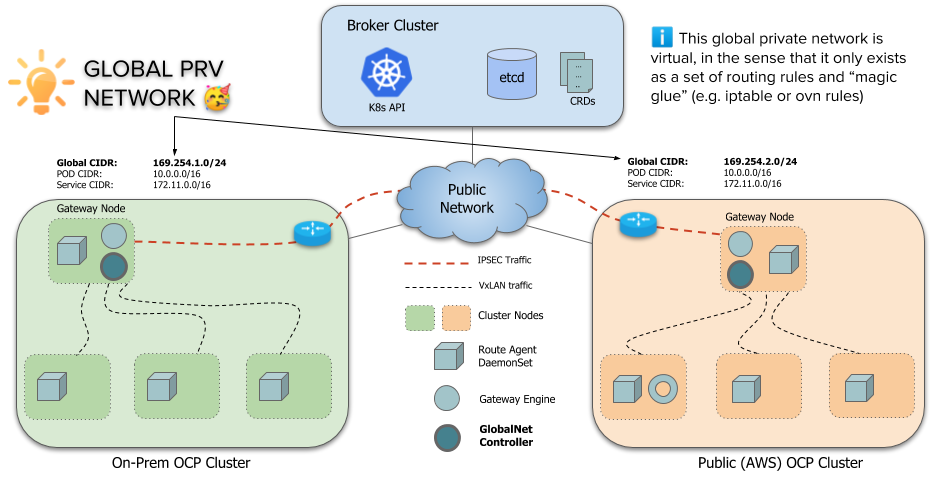
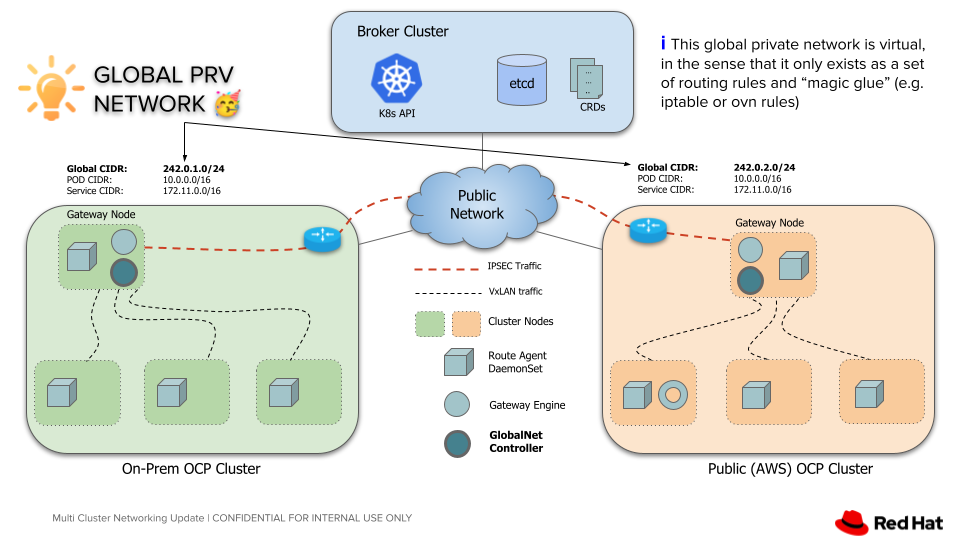
Update documentation for Globalnet 2.0
Fixes #455

diff --git a/src/content/getting-started/architecture/globalnet/_index.en.md b/src/content/getting-started/architecture/globalnet/_index.en.md
@@ -22,33 +22,42 @@ clusters with overlapping CIDRs to connect together.
 
 To support overlapping CIDRs in connected clusters, Submariner has a component called Global Private Network, Globalnet (`globalnet`). This
 Globalnet is a virtual network specifically to support Submariner's multi-cluster solution with a global CIDR. Each cluster is given a
-subnet from this virtual Global Private Network, configured as new cluster parameter `GlobalCIDR` (e.g. 169.254.0.0/16) which is
+subnet from this virtual Global Private Network, configured as new cluster parameter `GlobalCIDR` (e.g. 242.0.0.0/8) which is
 configurable at time of deployment. User can also manually specify GlobalCIDR for each cluster that is joined to the Broker using the flag
 ```globalnet-cidr``` passed to ```subctl join``` command. If Globalnet is not enabled in the Broker or if a GlobalCIDR is preconfigured in
 the cluster, the supplied globalnet-cidr will be ignored.
 
-Once configured, each exported Service and Pod that requires cross-cluster access is allocated an IP, named `globalIp`,
-from this `GlobalCIDR` that is annotated on the Pod/Service object.
-This globalIp is used for all cross-cluster communication to and from a Pod and the globalIp of a
-remote Service. Routing and iptable rules are configured to use the globalIp for ingress and egress. All address translations occur on the
-Gateway node.
+### Cluster-scope global egress IPs
+
+By default, every cluster is assigned a configurable number of global IPs, represented by a `ClusterGlobalEgressIP` resource, which are
+used as egress IPs for cross cluster communication. Multiple IPs are supported to avoid ephemeral port exhaustion issues. The default is 8.
+The IPs are allocated from a configurable global CIDR.
+Applications running on the host network that access remote clusters also use the cluster-level global egress IPs.
+
+### Namespace-scope global egress IPs
+
+A user can assign a configurable number of global IPs per namespace by creating a `GlobalEgressIP` resource. These IPs are also allocated
+from the global CIDR and are used as egress IPs for all or selected pods in the namespace and take precedence over the cluster-level
+global IPs. In addition, the global IPs allocated for a `GlobalEgressIP` that targets specific pods in a namespace take precedence
+over the global IPs allocated for a `GlobalEgressIP` that just targets the namespace.
+
+### Service global ingress IPs
+
+Exported `ClusterIP` type services are automatically allocated a global IP from the global CIDR for ingress. For headless services, each
+backing pod is allocated a global IP that is used for both ingress and egress. However if a backing pod matches a `GlobalEgressIP` then
+its allocated IPs are used for egress.
+
+Routing and iptable rules are configured to use the corresponding global IPs for ingress and egress. All address translations occur on the active
+Gateway node of the cluster.
 
 ![Figure 1 - Proposed solution](/images/globalnet/overlappingcidr-solution.png)
 
-{{% notice info %}}
-
-Unlike vanilla Submariner, where Pod to Pod connectivity is also supported, Globalnet only supports Pod to remote Service connectivity using
-globalIps.
-
-{{% /notice %}}
-
 ### submariner-globalnet
 
-Submariner Globalnet is a component that provides cross-cluster connectivity from Pods to remote Services using their globalIps. Compiled as
-binary `submariner-globalnet`, it is responsible for maintaining a pool of global IPs, allocating IPs from the GlobalIp pool to pods and
-services, annotating Services and Pods with their globalIp, and configuring the required rules on the gateway node to provide cross-cluster
-connectivity using globalIps.
-Globalnet also supports connectivity from the Nodes (including Pods that use HostNetworking) to globalIp of remote Services.
+Submariner Globalnet is a component that provides cross-cluster connectivity from pods to remote services using their global IPs. Compiled as
+binary `submariner-globalnet`, it is responsible for maintaining a pool of global IPs, allocating IPs from the global IP pool to pods and
+services, and configuring the required rules on the gateway node to provide cross-cluster connectivity using global IPs.
+Globalnet also supports connectivity from the nodes (including pods that use host networking) to the global IP of remote services.
 It mainly consists of two key components: the IP Address Manager and Globalnet.
 
 #### IP Address Manager (IPAM)
@@ -56,20 +65,18 @@ It mainly consists of two key components: the IP Address Manager and Globalnet.
 The IP Address Manager (IPAM) component does the following:
 
 * Creates a pool of IP addresses based on the `GlobalCIDR` configured on cluster.
-* Allocates a globalIp from the GlobalIp pool on creation of a Pod, Service, or ServiceExport.
-* Annotates the Pod or exported Service with `submariner.io/globalIp=<global-ip>`.
-* On deletion of a Pod, Service, or ServiceExport, releases its globalIp back to the pool.
+* Allocates IPs from the global pool for all ingress and egress, and releases them when no longer needed.
 
 #### Globalnet
 
 This component is responsible for programming the routing entries, iptable rules and does the following:
 
 * Creates initial iptables chains for Globalnet rules.
-* Whenever a Pod is annotated with a globalIp, creates an egress SNAT rule to convert the source Ip from the Pod's Ip to the Pod's globalIp
-  on the Gateway Node.
-* Whenever a Service is annotated with a globalIp, creates an ingress rule to direct all traffic destined to the Service's globalIp to the
-  Service's `kube-proxy` iptables chain which in turn directs traffic to Service's backend Pods.
-* Clean up the rules from the gateway node on the deletion of a Pod, Service, or ServiceExport.
+* For each `GlobalEgressIP`, creates corresponding SNAT rules to convert the source IPs for all the matching pods to the corresponding
+  global IP(s) allocated to the `GlobalEgressIP` object.
+* For each exported service, creates an ingress rule to direct all traffic destined to the Service's global IP to the service's
+  `kube-proxy` iptables chain which in turn directs traffic to service's backend pods.
+* Clean up the rules from the gateway node on the deletion of a `Pod`, `Service`, or ServiceExport`.
 
 Globalnet currently relies on `kube-proxy` and thus will only work with deployments that use `kube-proxy`.
 
@@ -78,10 +85,77 @@ Globalnet currently relies on `kube-proxy` and thus will only work with deployme
 Connectivity is only part of the solution as pods still need to know the IPs of services on remote clusters.
 
 This is achieved by enhancing [lighthouse](https://github.com/submariner-io/lighthouse) with support for Globalnet. The Lighthouse
-controller adds the service's globalIp to the `ServiceImport` object that is distributed to all clusters. The [lighthouse
-plugin](https://github.com/submariner-io/lighthouse/tree/devel/plugin/lighthouse) then uses the Service's globalIp when replying to DNS
-queries for the Service.
+controller uses a service's global IP when creating the `ServiceImport` for services of type `ClusterIP`. For  headless services,
+backing pod's global IP is used when creating the `EndpointSlice` resources to be distributed to other clusters.
+The [lighthouse plugin](https://github.com/submariner-io/lighthouse/tree/devel/plugin/lighthouse) then uses the global IPs when
+replying to DNS queries.
 
 ## Building
 
 Nothing extra needs to be done to build `submariner-globalnet` as it is built with the standard Submariner build.
+
+## Usage
+
+Refer to the [Quickstart Guides](../../quickstart/) on how to deploy Submariner with Globalnet enabled. For most deployments users will not
+need to do anything else once deployed. But users can create `GlobalEgressIP`s or edit the `ClusterGlobalEgressIP` for specific use cases.
+
+### Ephemeral Port Exhaustion
+
+By default, 8 cluster-scoped global IPs are allocated which allows for `~8x64k` active ephemeral ports. If those are still
+not enough for a cluster, this number can be increased by setting the `NumberOfIPs` field in the `ClusterGlobalEgressIP` with the
+well-known name `cluster-egress.submariner.io`:
+
+```yaml
+   apiVersion: submariner.io/v1alpha1
+   kind: ClusterGlobalEgressIP
+   metadata:
+     name: cluster-egress.submariner.io
+   spec:
+     NumberOfIPs: 9
+```
+
+{{% notice note %}}
+Only the `ClusterGlobalEgressIP` resource with the name `cluster-egress.submariner.io` is recognized by Globalnet. This resource is automatically
+created with the default number of IPs.
+{{% /notice %}}
+
+### Global IPs for a Namespace
+
+If it's desired for all pods in a namespace to use a unique global IP instead of one of the cluster-scoped IPs, a user can create a
+`GlobalEgressIP` resource in that namespace:
+
+```yaml
+   apiVersion: submariner.io/v1alpha1
+   kind: GlobalEgressIP
+   metadata:
+     name: ns-egressip
+     namespace: ns1
+   spec:
+     NumberOfIPs: 1
+```
+
+The example above will allocate 1 global IP which will be used as egress IP for all pods in namespace `ns1`
+
+{{% notice note %}}
+`NumberOfIPs` can have minimum value of `0` and maximum of `20`
+{{% /notice %}}
+
+### Global IPs for a set of pods
+
+If it's desired for a set of pods in a namespace to use unique global IP(s), a user can create a `GlobalEgressIP` resource in that
+namespace with the `podSelector` field set:
+
+```yaml
+   apiVersion: submariner.io/v1alpha1
+   kind: GlobalEgressIP
+   metadata:
+     name: db-pods
+     namespace: ns1
+   spec:
+     podSelector:
+         matchLabels:
+           role: db
+     NumberOfIPs: 1
+```
+
+The example above will allocate 1 global IP which will be used as egress IP for all pods matching label `role=db` in namespace `ns1`.

diff --git a/src/content/operations/deployment/subctl/_index.en.md b/src/content/operations/deployment/subctl/_index.en.md
@@ -59,8 +59,8 @@ contains the following details:
 | `--version` `<string>`                | Image version
 | `--components <strings>`              | Comma-separated list of components to be installed - any of `service-discovery`,`connectivity`. The default is: `service-discovery`,`connectivity`
 | `--globalnet`                         | Enable support for overlapping Cluster/Service CIDRs in connecting clusters (default disabled)
-| `--globalnet-cidr-range` `<string>`   | Global CIDR supernet range for allocating GlobalCIDRs to each cluster (default "169.254.0.0/16")
-| `--globalnet-cluster-size` `<value>`  | Default cluster size for GlobalCIDR allocated to each cluster (amount of global IPs) (default 8192)
+| `--globalnet-cidr-range` `<string>`   | Global CIDR supernet range for allocating GlobalCIDRs to each cluster (default "242.0.0.0/8")
+| `--globalnet-cluster-size` `<value>`  | Default cluster size for GlobalCIDR allocated to each cluster (amount of global IPs) (default 65536)
 | `--ipsec-psk-from` `<string>`         | Import IPsec PSK from existing Submariner broker file, like broker-info.subm (default `broker-info.subm`)
 <!-- markdownlint-enable line-length -->
 

diff --git a/src/content/operations/troubleshooting/_index.en.md b/src/content/operations/troubleshooting/_index.en.md
@@ -23,7 +23,7 @@ Run `kubectl get services -n <service-namespace> | grep <service-name>` to get i
 will provide you with the Service *Name*, *Namespace* and *ServiceIP*. If **Globalnet** is enabled, you will also need the *globalIp* of the
 service by running
 
-`kubectl get service <service-name> -o jsonpath='{.metadata.annotations.submariner\.io/globalIp}'`
+`kubectl get globalingressip <service-name>'`
 
 <!---
 
@@ -71,10 +71,6 @@ Sample output:
       statusMessage: Connected to 172.17.0.7:4500 - encryption alg=AES_GCM_16, keysize=128
         rekey-time=13444
 ```
-
-{{% notice note %}}
-This feature is only available for non-Globalnet deployments at the moment.
-{{% /notice %}}
 
 The Gateway Engine uses the `Health Check IP` of the endpoint to verify connectivity.
 The connection `Status` will be marked as `error`, if it cannot reach this IP,

diff --git a/src/content/operations/deployment/calico/_index.en.md b/src/content/operations/deployment/calico/_index.en.md
@@ -20,7 +20,7 @@ and allows Submariner to support cross-cluster connectivity.
 
 {{% notice note %}}
 When using [Submariner Globalnet](../../../getting-started/architecture/globalnet) with Calico, please avoid the default
-globalnet-cidr (i.e., 169.254.0.0/16) as its used internally within Calico. You can explicitly specify
+globalnet-cidr (i.e., 242.0.0.0/8) as its used internally within Calico. You can explicitly specify
 a non-overlapping globalnet-cidr while deploying Submariner.
 {{% /notice %}}
 

diff --git a/src/content/operations/deployment/helm/_index.en.md b/src/content/operations/deployment/helm/_index.en.md
@@ -59,7 +59,7 @@ If your clusters have overlapping IPs (Cluster/Service CIDRs), please set:
 
 ```bash
 export GLOBALNET=true
-export GLOBAL_CIDR=169.254.x.x/x # using an individual non-overlapping
+export GLOBAL_CIDR=242.x.x.x/x # using an individual non-overlapping
                                  # range for each cluster you join.
 ```
 

diff --git a/src/resources/shared/verify_with_discovery.md b/src/resources/shared/verify_with_discovery.md
@@ -13,8 +13,6 @@ subctl export service --namespace default nginx
 
 ##### Deploy Headless Service
 
-Note that headless Services can only be exported on non-globalnet deployments.
-
 ```bash
 export KUBECONFIG=cluster-b/auth/kubeconfig
 kubectl -n default create deployment nginx --image=nginxinc/nginx-unprivileged:stable-alpine
